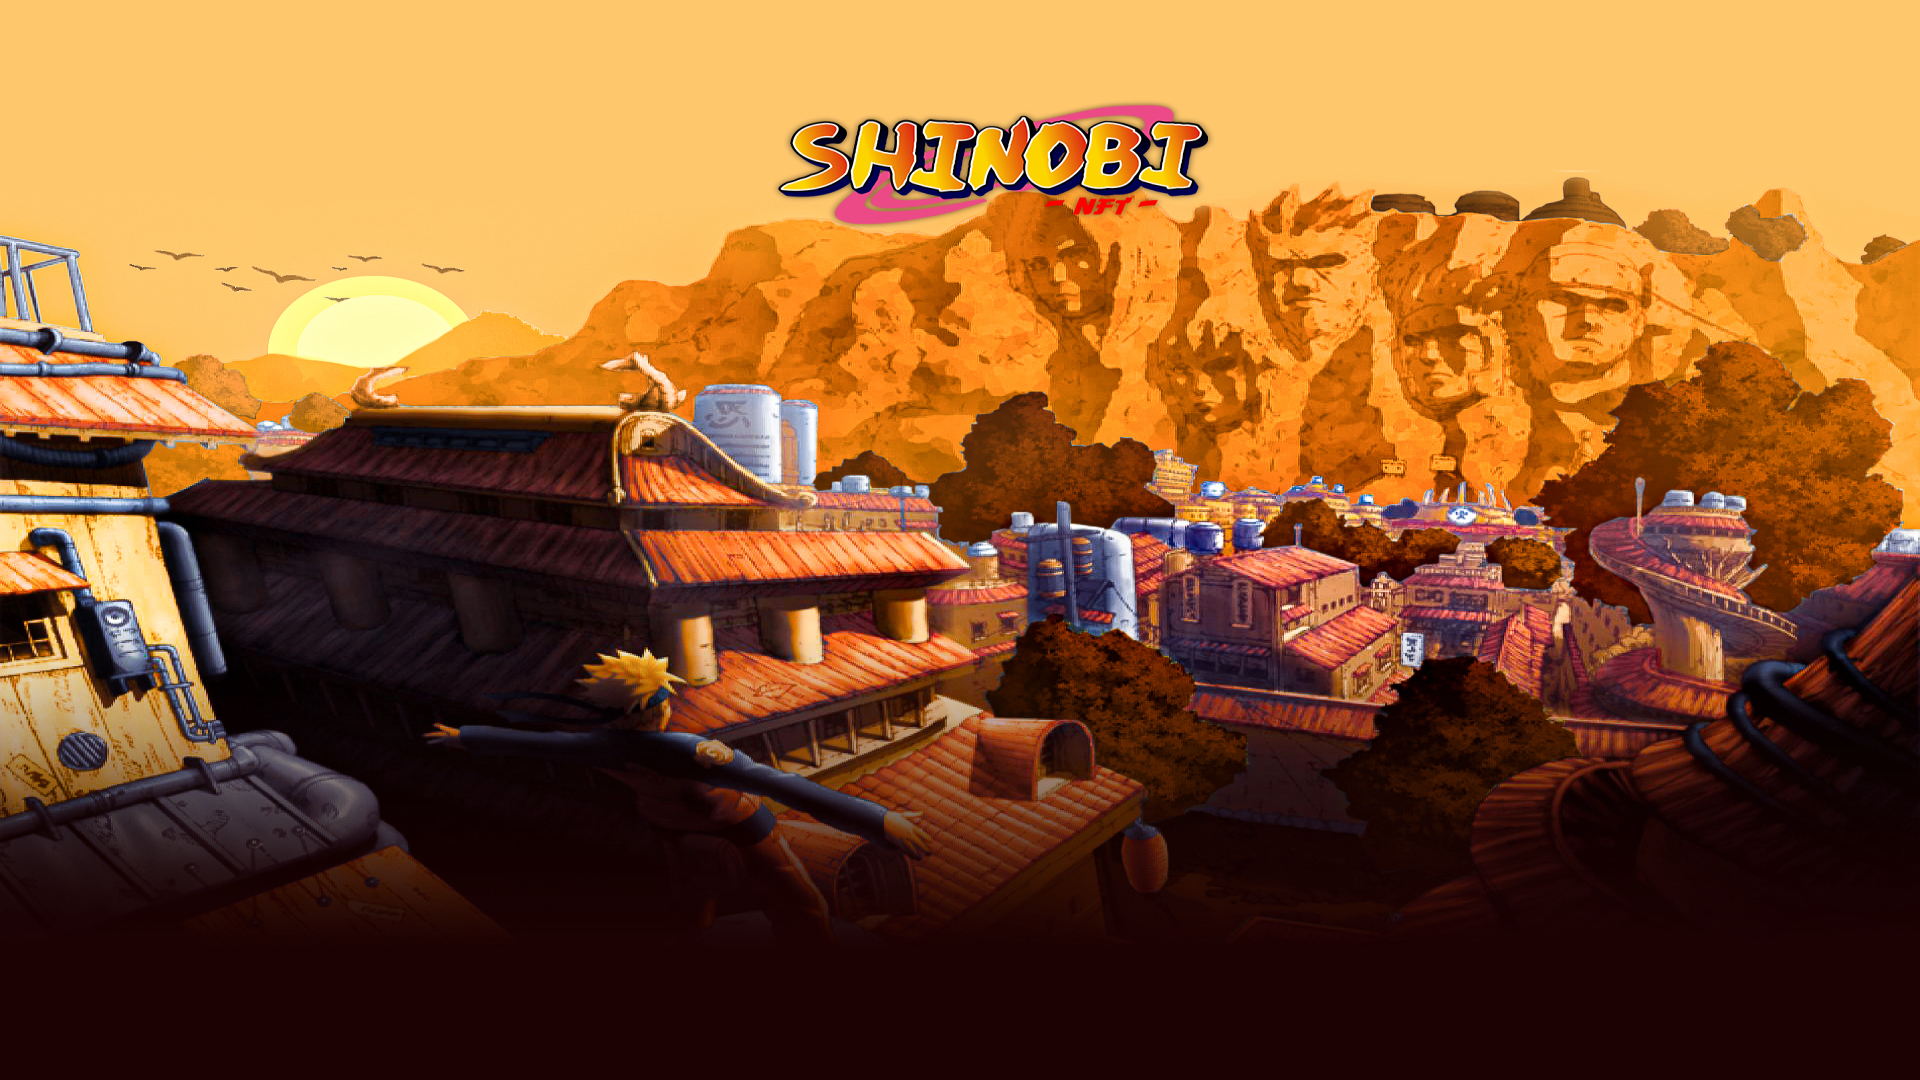
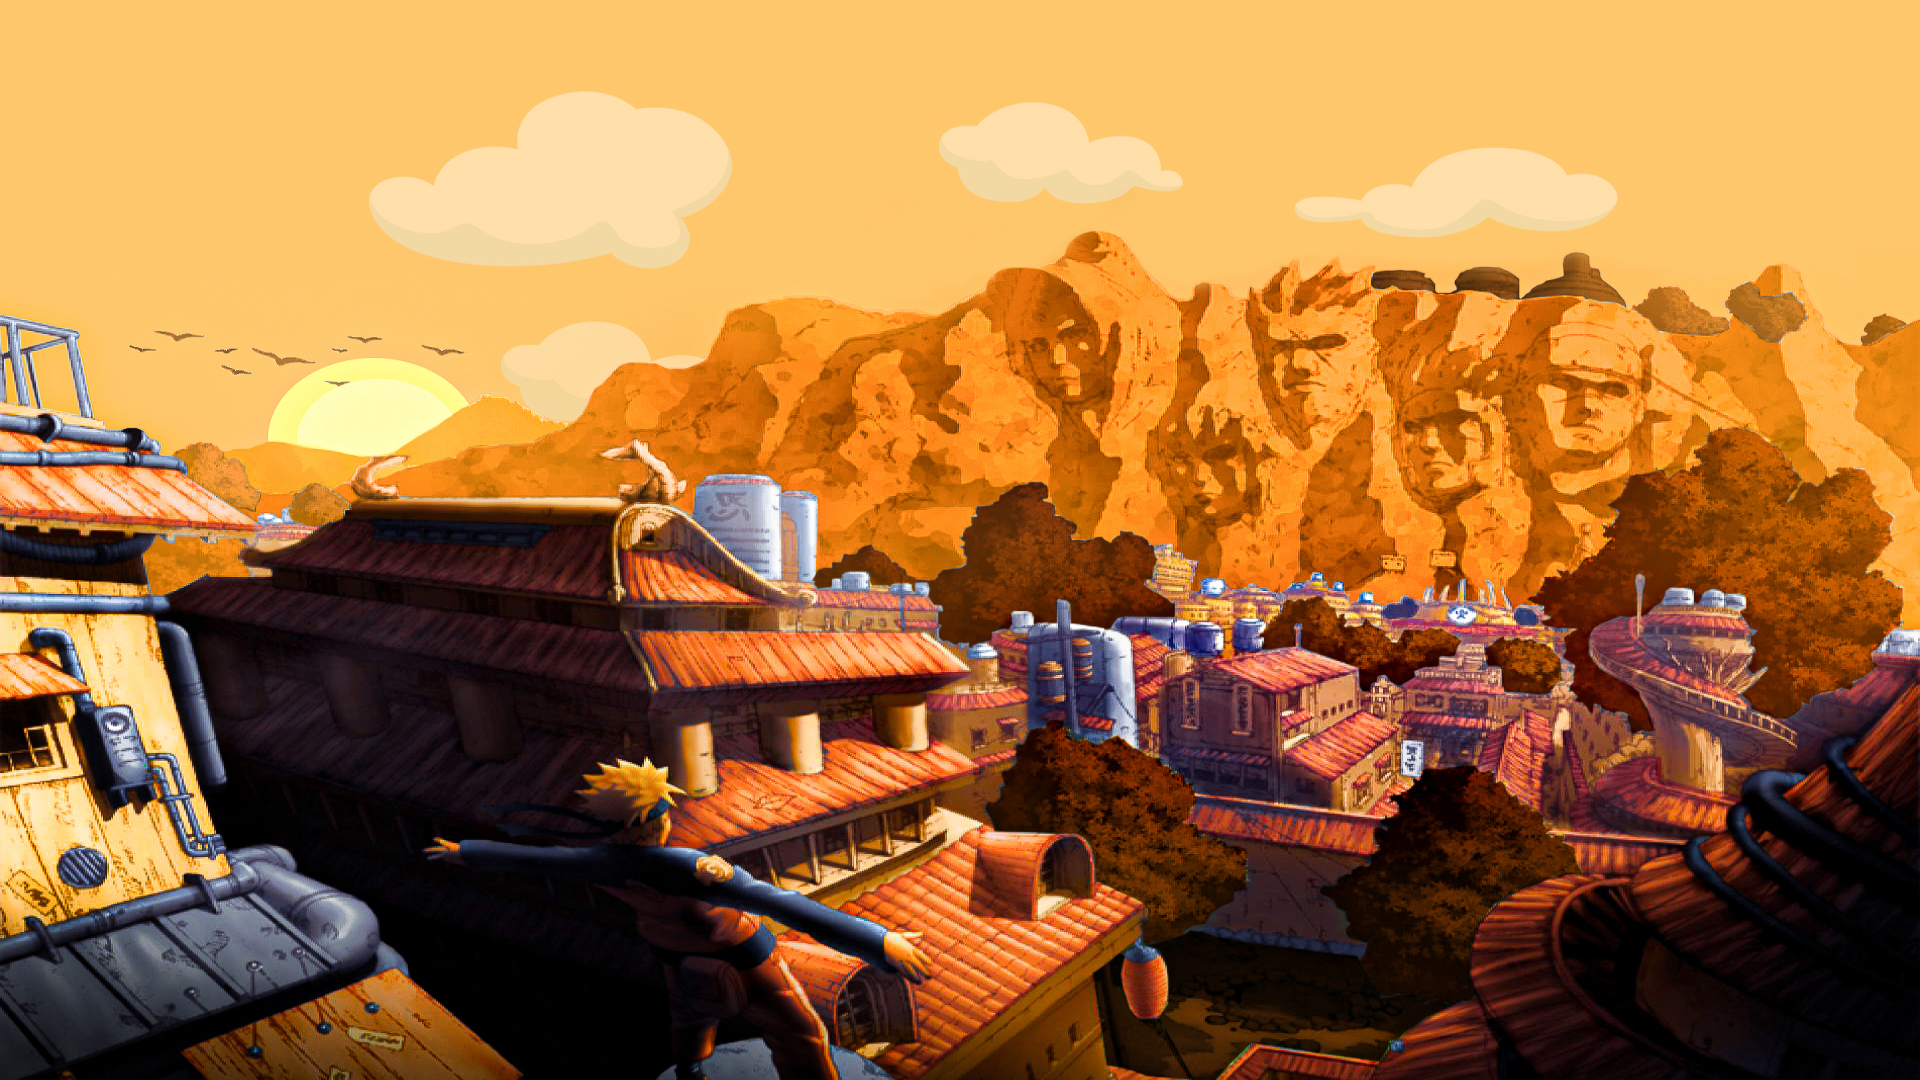
fix: static parallax

diff --git a/src/components/Parallax.vue b/src/components/Parallax.vue
@@ -9,6 +9,8 @@
         style="transform: translate3d(0px, 0px, 0px)"
     )
     .layer.static(v-else)
+        img.logo(src="/images/logo.png")
+        .gradient
 </template>
 
 <script>
@@ -49,16 +51,15 @@ export default {
 
 <style lang="scss">
 .hero {
-    display: inline-block;
     position: relative;
     width: 100%;
     height: 100vh;
 
     .layer {
         display: block;
+        position: relative;
         width: 100%;
         height: 100vh;
-
         &.parallax {
             position: fixed;
             background-attachment:fixed;
@@ -107,7 +108,34 @@ export default {
         }
 
         &.static {
-            background: url('/images/parallax/static.jpeg') top right no-repeat;;
+            background: url('/images/parallax/static.jpeg') 35% center no-repeat;
+            padding-top: 100px;
+
+            .logo {
+                margin: auto;
+                width: 400px;
+                display: block;
+            }
+
+            .gradient {
+                width: 100%;
+                height: 400px;
+                position: absolute;
+                bottom: 0;
+                left: 0;
+                margin: 0;
+                padding: 0;
+                background-image: linear-gradient(transparent 10%, $background-color 75%);
+            }
+
+            @media only screen and (max-device-width: 750px) {
+                background: url('/images/parallax/static.jpeg') 35% 75% no-repeat;
+                padding-top: 100px;
+
+                .logo {
+                    width: 250px;
+                }
+            }
         }
 
         @media only screen and (max-device-width: 450px) {

diff --git a/src/components/Nav.vue b/src/components/Nav.vue
@@ -52,6 +52,7 @@ export default {
 
 <style lang="scss" scoped>
     nav {
+        position: relative;
         display: flex;
         flex-direction: row;
         align-items: center;
